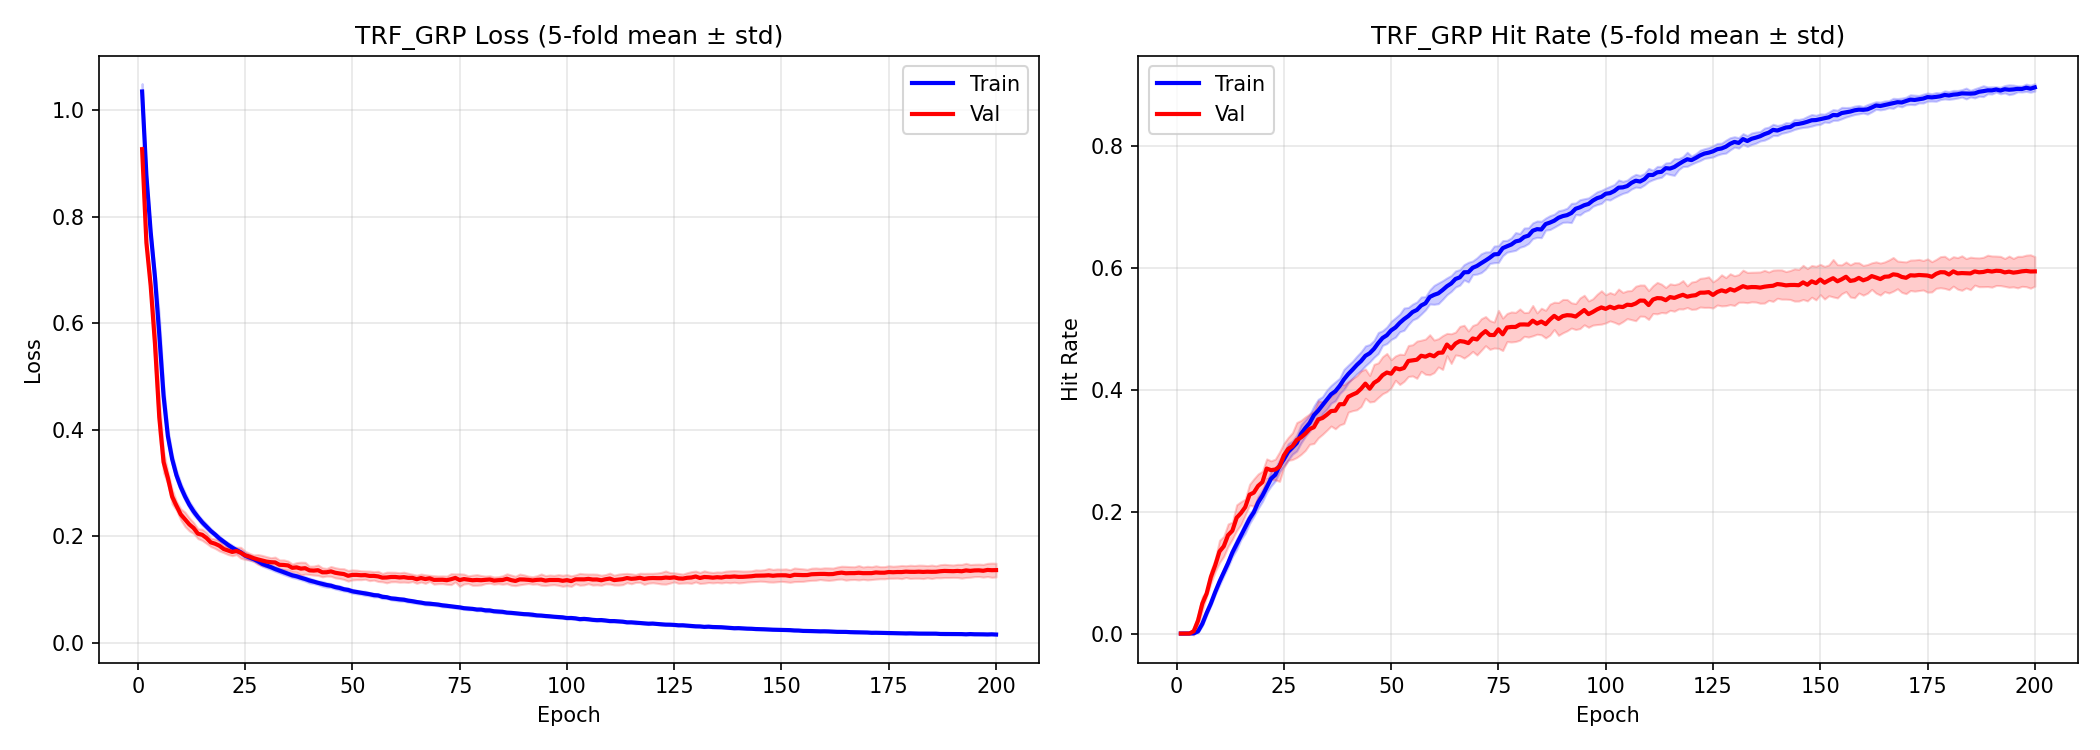
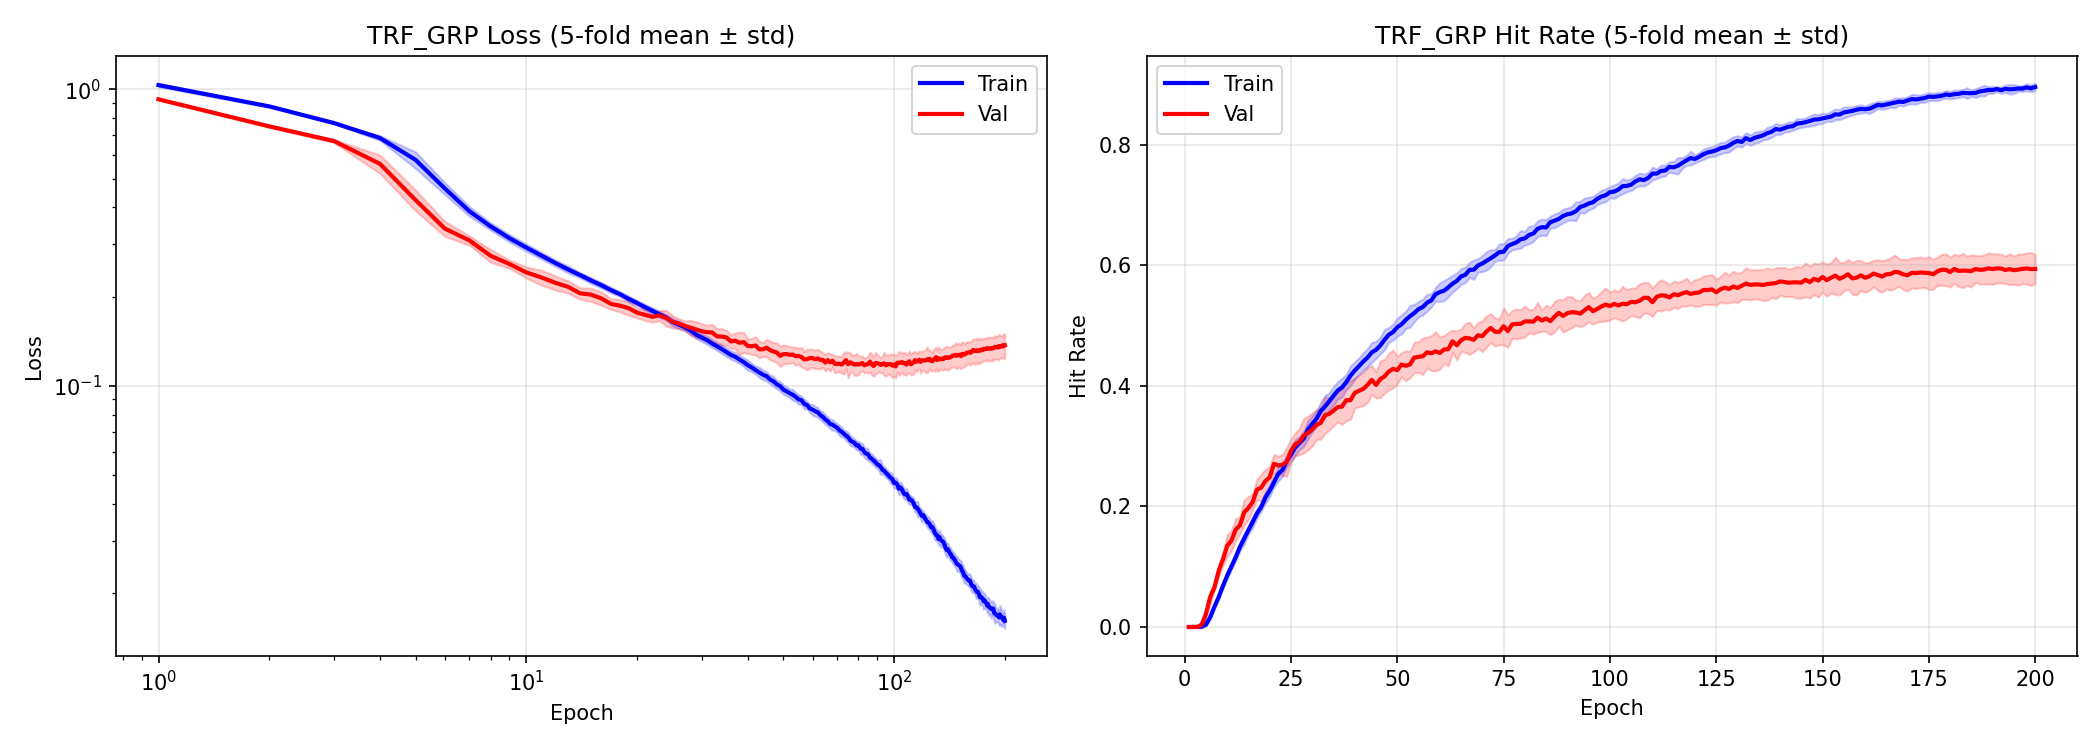
logscale

diff --git a/plot_training_curves.py b/plot_training_curves.py
@@ -77,6 +77,8 @@ ax.fill_between(epochs, train_loss_mean - train_loss_std, train_loss_mean + trai
 ax.fill_between(epochs, val_loss_mean - val_loss_std, val_loss_mean + val_loss_std, alpha=0.2, color='red')
 ax.set_xlabel('Epoch')
 ax.set_ylabel('Loss')
+ax.set_xscale('log')
+ax.set_yscale('log')
 ax.set_title(f'{job.upper()} Loss ({len(all_data)}-fold mean ± std)')
 ax.legend()
 ax.grid(True, alpha=0.3)
